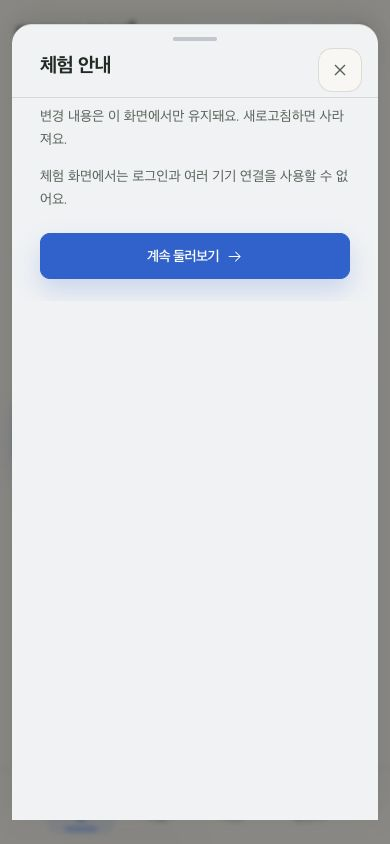
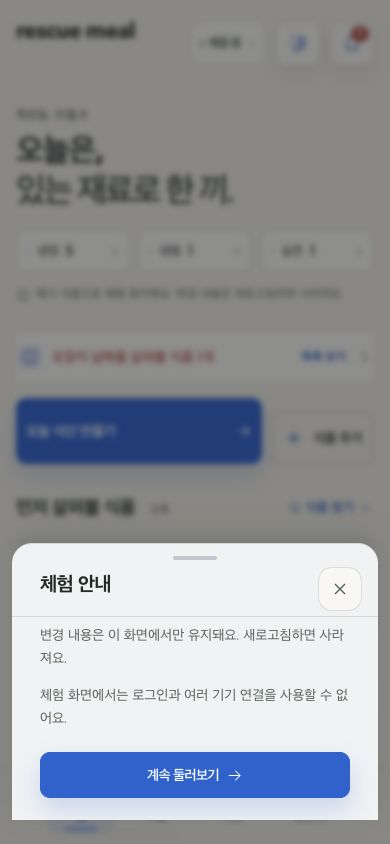
Refine inventory metadata and compact demo account sheet

diff --git a/apps/web/src/Prototype.tsx b/apps/web/src/Prototype.tsx
@@ -5418,11 +5418,8 @@ function PrototypeContent() {
                 <button className={inventoryStatusFilter === "priority" ? "inventory-status-filter-active inventory-status-filter-priority" : "inventory-status-filter-priority"} type="button" aria-pressed={inventoryStatusFilter === "priority"} aria-controls="inventory-list" onClick={() => { setInventoryStatusFilter("priority"); if (activeContentNavRef.current === "food") restoreContentNavigation("food"); }}>먼저 살펴보기 <span>{inventoryScopedPriorityCount}</span></button>
               </div>
               {showInventoryScope ? <div className="inventory-filter-summary" role="status" aria-live="polite">
-                <span><i aria-hidden="true" /><Metadata parts={[inventoryScopeLabel, `${inventoryCount}개`]} /></span>
+                <span><Metadata parts={[inventoryScopeLabel, `${inventoryCount}개`]} /></span>
                 <button type="button" onClick={clearInventoryFilters}>검색·필터 초기화</button>
-              </div> : !inventoryDataUnknown && !hasInventoryQuery && storageFilter === "전체" && inventoryNeedsReviewCount ? <div className="inventory-filter-summary inventory-health-summary">
-                <span><i aria-hidden="true" />날짜·보관을 살펴볼 식품 {inventoryNeedsReviewCount}개</span>
-                <span>포장지 날짜와 보관 방법을 살펴봐 주세요</span>
               </div> : null}
             </div>
 
@@ -5444,11 +5441,10 @@ function PrototypeContent() {
                     <span className="inventory-copy">
                       <strong>{food.name}</strong>
                       <small><MetadataText text={<>{foodSourceSummary(food)} · {food.quantity}{food.storageLocationName ? ` · ${food.storageLocationName}` : ""}</>} /></small>
-                      <small className="inventory-storage-meta"><span className={`storage-dot ${getStorageClass(food.storage)}`} aria-hidden="true" /><span><MetadataText text={<>{food.storage}{dateOriginLabel ? ` · ${dateOriginLabel}` : ""}</>} /></span></small>
+                      <small className="inventory-storage-meta"><span><MetadataText text={<>{food.storage}{dateOriginLabel ? ` · ${dateOriginLabel}` : ""}</>} /></span></small>
                     </span>
                     <span className={`inventory-status ${reviewReason ? "inventory-status-warning" : ""}`} data-inventory-status={reviewReason ? "needs-review" : food.priority <= 3 ? "priority" : "stored"}>
-                      <span className={`storage-dot ${reviewReason ? "status-dot-warning" : getStorageClass(food.storage)}`} aria-hidden="true" />
-                      <span className="inventory-status-content">
+                                            <span className="inventory-status-content">
                         <span className="inventory-status-label">{reviewReason ? reviewReason === "보관 방법 확인" ? "보관 확인" : "날짜 확인" : food.priority <= 3 ? <><b>먼저 살펴보기</b><span className="inventory-date-value">{food.dateLabel}</span></> : food.dateLabel}</span>
                         {reviewDetail ? <small className="inventory-review-detail"><MetadataText text={reviewDetail} /></small> : null}
                       </span>

diff --git a/apps/web/src/prototype.css b/apps/web/src/prototype.css
@@ -18336,3 +18336,22 @@ html[data-rescue-theme="light"] .app-shell-preview .meal-home .priority-card .fo
 .bottom-sheet .label-result-action-summary .metadata-parts {
   justify-content: center;
 }
+
+/* A brief disclosure should fit its content instead of stretching across the phone. */
+.app-shell-web .bottom-sheet:has(.account-demo-explainer) {
+  top: auto !important;
+  height: auto !important;
+  max-height: calc(100dvh - 48px) !important;
+}
+
+.inventory-status[data-inventory-status="priority"] .inventory-status-label,
+.inventory-status[data-inventory-status="needs-review"] .inventory-status-label {
+  background: transparent;
+}
+
+.inventory-review-detail .metadata-parts {
+  display: flex;
+  flex-direction: column;
+  align-items: flex-end;
+  gap: 2px;
+}
